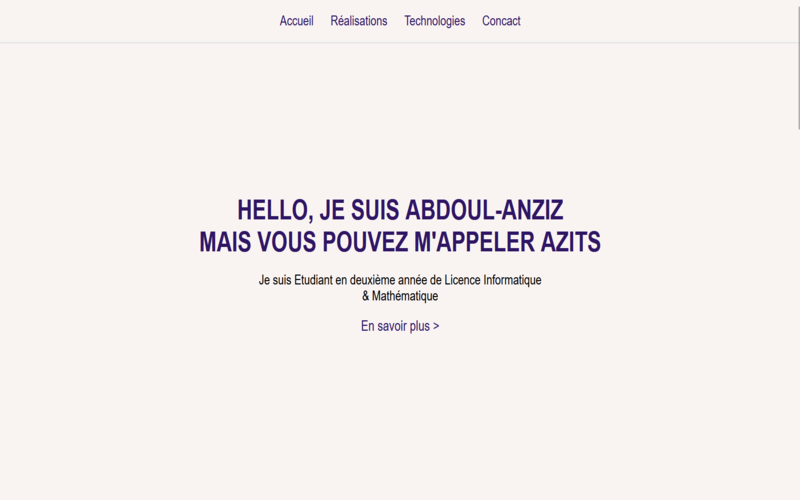
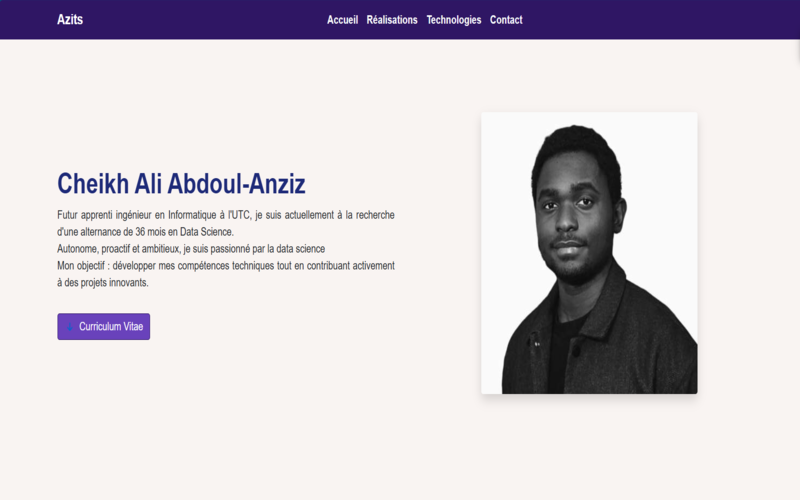
modification (ajout Python et SQL

Changed region(s): [[0.0625, 0.24, 0.875, 0.81], [0.0, 0.0, 1.0, 0.09], [0.4375, 0.63, 0.5625, 0.66]]

diff --git a/js/data.js b/js/data.js
@@ -3,7 +3,7 @@ const data = [
       nom: "Portfolio",
       categorie: "Développement Web",
       Image: "./img/Portfolio.png",
-      description: "Un portfolio interactif et moderne conçu pour présenter mes compétences en développement web.",
+      description: "Un portfolio conçu pour présenter mes compétences en développement web.",
       github: "https://github.com/Azits/portfolio"
     },
     {
@@ -14,19 +14,31 @@ const data = [
       github: "https://github.com/Azits/Pirate-D-fense"
     },
     {
+      nom: "Jeu Echecs et Dames",
+      categorie: "Développement java",
+      Image: "./img/jeuEchecs.png",
+      description: "Jeu d’échecs et dames en Java avec le modèle MVC & Design Patterns Décorateur",
+      github: "https://github.com/Azits/jeux-echecs"
+    },
+    {
       nom: "Simulation Virus",
       categorie: "Développement C++",
       Image: "./img/IMG.png",
       description: "Simulation graphique de propagation d’un virus en C++ avec SFML.",
       github: "https://github.com/Azits/simulation-virus"
     }
+
   ];
   const technologie = [
-    { nom: "HTML", Image: "./img/html5.svg" },
-    { nom: "CSS", Image: "./img/css.svg" },
-    { nom: "JavaScript", Image: "./img/javascript.svg" },
-    { nom: "C++", Image: "./img/cplusplus.svg" },
+    {nom: "Python", Image: "./img/Python--Streamline-Font-Awesome.svg" },
+    {nom: "SQL", Image: "./img/Sql--Streamline-Carbon.svg" },
+    { nom: "C++", Image: "./img/cplusplus.svg"},
     { nom: "SFML", Image: "./img/sfml.svg" },
     { nom: "Git", Image: "./img/github.svg" },
     { nom: "Figma pour le prototypage", Image: "./img/figma.svg" },
+    { nom: "Java", Image: "./img/Java--Streamline-Font-Awesome.svg" },
+    { nom: "HTML", Image: "./img/html5.svg" },
+    { nom: "CSS", Image: "./img/css.svg" },
+    { nom: "JavaScript", Image: "./img/javascript.svg" }
+    
   ];

diff --git a/index.html b/index.html
@@ -54,7 +54,7 @@
       
 
             <div class="col-12 col-md-6 order-2 order-md-1">
-              <h1 class="fw-bold">Cheikh Ali Abdoul-Anzizi</h1>
+              <h1 class="fw-bold ">Cheikh Ali Abdoul-Anziz</h1>
               <p style="text-align: justify;">
                 Futur apprenti ingénieur en Informatique à l'UTC, je suis actuellement à la recherche d'une alternance de 36 mois en Data Science.<br />
                 Autonome, proactif et ambitieux, je suis passionné par la data science<br />
@@ -80,7 +80,7 @@
 
     <section id="Connaissance" class="py-5 bg-light">
       <div class="container">
-        <h2 class="text-center mb-5">Technologies maîtrisées</h2>
+        <h2 class="text-center mb-5">Compétences en programation</h2>
         <div id="skills-cards" class="row"></div>
       </div>
     </section>
@@ -90,14 +90,13 @@
     <div class="container">
       <section id="contact">
         <h4 class="mb-4">Contactez-moi</h4>
-
         <div class="mt-3">
           <a href="https://www.linkedin.com/in/abdoul-anziz-cheikh-ali-559383238" class="text-light mx-2"><i class="bi bi-linkedin fs-4"></i></a>
           <a href="https://github.com/Azits" class="text-light mx-2"><i class="bi bi-github fs-4"></i></a>
           <a href="mailto:cheikhaliabdoulanziz13@gmail.com" class="text-light mx-2"><i class="bi bi-envelope fs-4"></i></a>
         </div>
       </section>
-      <p class="mt-3 mb-0">&copy; <span id="year"></span> Cheikh Ali Abdoul-Anzizi</p>
+      <p class="mt-3 mb-0">&copy; <span id="year"></span> Cheikh Ali Abdoul-Anziz</p>
     </div>
   </footer>
 

diff --git a/Css/Styles.css b/Css/Styles.css
@@ -63,9 +63,7 @@ h1, h2, h3 {
   
 
 .card-img-top {
-    border-top-left-radius: 0.75rem;
-    border-top-right-radius: 0.75rem;
-    max-height: 200px;
+    max-height: 250px;
     object-fit: cover;
 }
 .nav-link {
